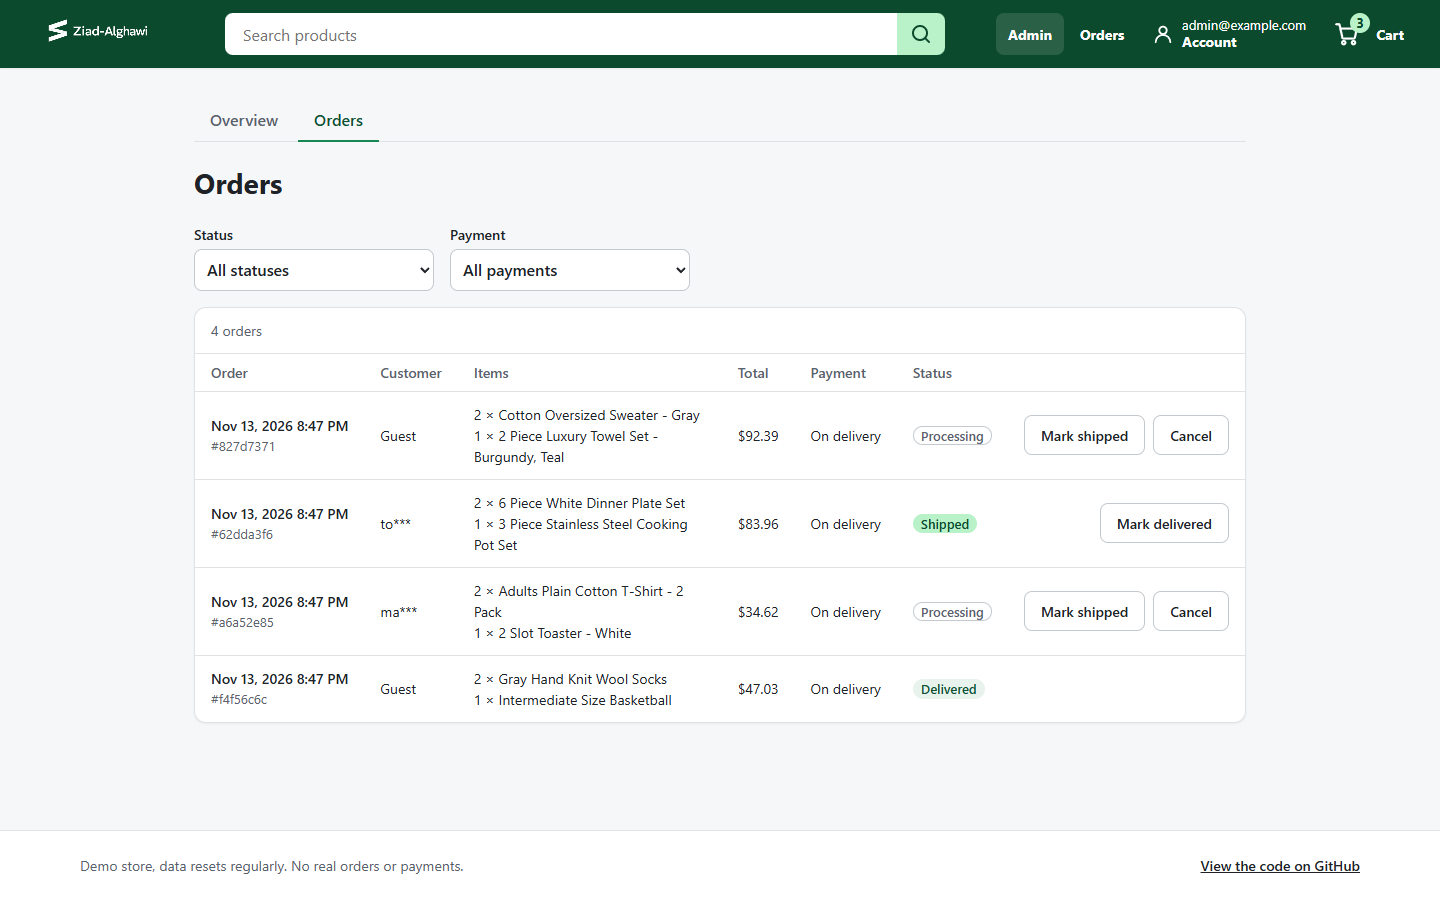
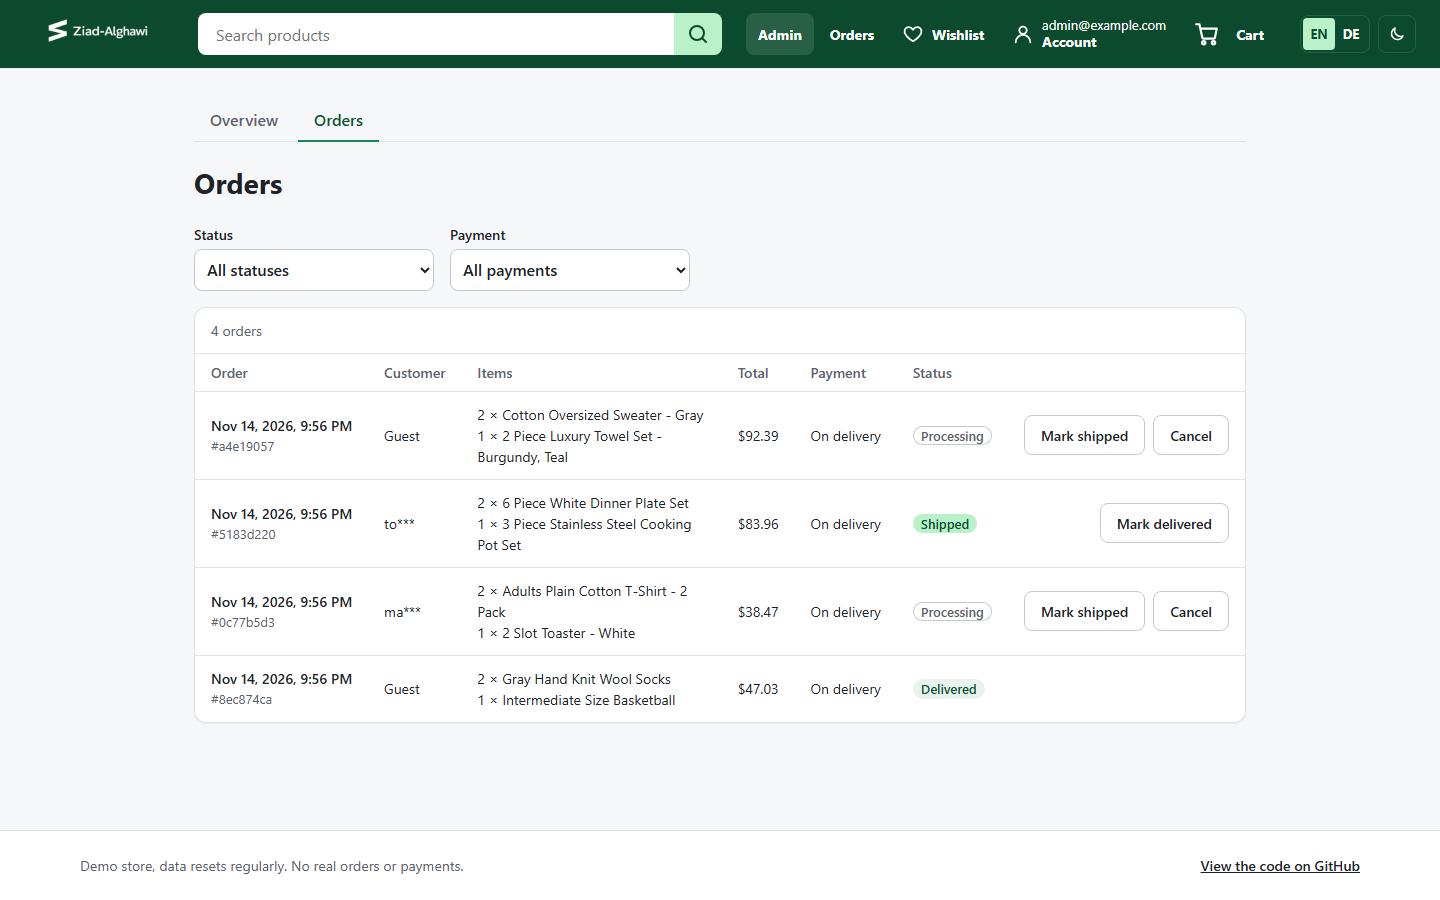
Tidy up after review and update the README and screenshots

diff --git a/src/i18n/de.ts b/src/i18n/de.ts
@@ -67,7 +67,7 @@ export const de: Messages = {
   },
   stock: {
     outOfStock: 'Ausverkauft',
-    onlyLeft: (stock) => `Nur noch ${stock} da`,
+    onlyLeft: (stock) => `Nur noch ${stock} auf Lager`,
     inStock: (stock) => `${stock} auf Lager`
   },
   addToCart: {
@@ -84,7 +84,7 @@ export const de: Messages = {
   },
   home: {
     title: 'Alltägliches, direkt geliefert',
-    intro: 'Basics für Zuhause, Küche und Kleiderschrank, mit kostenlosem Versand für jede Bestellung.',
+    intro: 'Basics für Zuhause, Küche und Kleiderschrank, mit kostenloser Versandoption für jede Bestellung.',
     resultsFor: (search) => `Ergebnisse für „${search}“`,
     noResults: (search) => `Keine Produkte für „${search}“ gefunden`,
     noMatch: 'Keine Produkte passen zu diesen Filtern',
@@ -238,7 +238,7 @@ export const de: Messages = {
   account: {
     title: 'Dein Konto',
     loginDetails: 'Anmeldedaten',
-    customerSince: 'Kunde seit',
+    customerSince: 'Dabei seit',
     ordersTitle: 'Deine Bestellungen',
     ordersText: 'Sendungen verfolgen, erneut kaufen oder Gekauftes bewerten',
     passwordTitle: 'Passwort ändern',
@@ -397,10 +397,10 @@ export const de: Messages = {
   },
   apiErrors: {
     outOfStock: ({ product, inCart }) => `${product} ist ausverkauft.${inCartNote(inCart)}`,
-    lowStock: ({ product, stock, inCart }) => `Von ${product} sind nur noch ${stock} da.${inCartNote(inCart)}`,
+    lowStock: ({ product, stock, inCart }) => `Von ${product} sind nur noch ${stock} auf Lager.${inCartNote(inCart)}`,
     outOfStockInOrder: ({ product }) => `${product} ist ausverkauft. Entferne es aus dem Warenkorb, um fortzufahren.`,
     lowStockInOrder: ({ product, stock }) => (
-      `Von ${product} sind nur noch ${stock} da. Verringere die Menge im Warenkorb, um fortzufahren.`
+      `Von ${product} sind nur noch ${stock} auf Lager. Verringere die Menge im Warenkorb, um fortzufahren.`
     ),
     emptyCart: () => 'Dein Warenkorb ist leer.',
     orderLimit: ({ max }) => `Dieser Demo-Shop speichert bis zu ${max} Bestellungen pro Besucher, und du hast das Limit erreicht.`,
@@ -421,7 +421,7 @@ export const de: Messages = {
   },
   validation: {
     valueMissing: 'Bitte fülle dieses Feld aus.',
-    typeMismatch: 'Bitte gib eine gültige E-Mail-Adresse ein.',
+    invalidEmail: 'Bitte gib eine gültige E-Mail-Adresse ein.',
     tooShort: (minLength) => `Bitte verwende mindestens ${minLength} Zeichen.`,
     rangeUnderflow: (min) => `Bitte gib ${min} oder mehr ein.`,
     rangeOverflow: (max) => `Bitte gib höchstens ${max} ein.`,

diff --git a/src/pages/WishlistPage.test.tsx b/src/pages/WishlistPage.test.tsx
@@ -19,19 +19,27 @@ const socks: Product = {
 
 const scarf: Product = { ...socks, id: '15b6fc6f-327a-4ec4-896f-486349e85a3d', name: 'Plaid Wool Scarf', deletedAt: '2026-11-01T00:00:00.000Z' };
 
-function renderPage(wishlist: Partial<Wishlist> | null) {
+function page(wishlist: Partial<Wishlist> | null) {
   const list = wishlist && {
     items: [], status: 'ready', reload: vi.fn(), has: () => true, save: vi.fn(), remove: vi.fn(), ...wishlist
   } as Wishlist;
-  render(
-    <MemoryRouter>
-      <AuthContext value={{ user: list ? { id: 'user-1' } as User : null, isAdmin: false, logOut: vi.fn() }}>
-        <WishlistContext value={list}>
-          <WishlistPage cart={[]} loadCart={vi.fn()} />
-        </WishlistContext>
-      </AuthContext>
-    </MemoryRouter>
-  );
+  return {
+    list,
+    element: (
+      <MemoryRouter>
+        <AuthContext value={{ user: list ? { id: 'user-1' } as User : null, isAdmin: false, logOut: vi.fn() }}>
+          <WishlistContext value={list}>
+            <WishlistPage cart={[]} loadCart={vi.fn()} />
+          </WishlistContext>
+        </AuthContext>
+      </MemoryRouter>
+    )
+  };
+}
+
+function renderPage(wishlist: Partial<Wishlist> | null) {
+  const { list, element } = page(wishlist);
+  render(element);
   return list;
 }
 
@@ -63,6 +71,16 @@ describe('WishlistPage', () => {
     expect(second).toHaveTextContent('Plaid Wool Scarf');
     expect(within(second).getByTestId('product-unavailable')).toHaveTextContent('No longer available');
     expect(within(second).queryByTestId('add-to-cart-button')).not.toBeInTheDocument();
+  });
+
+  it('moves keyboard focus to the title when a product is removed, as its heart goes away', () => {
+    const socksItem = { productId: socks.id, createdAt: '2026-11-02T00:00:00.000Z', product: socks };
+    const scarfItem = { productId: scarf.id, createdAt: '2026-11-01T00:00:00.000Z', product: scarf };
+    const { rerender } = render(page({ items: [socksItem, scarfItem] }).element);
+
+    rerender(page({ items: [scarfItem] }).element);
+
+    expect(screen.getByRole('heading', { level: 1, name: 'Your wishlist' })).toHaveFocus();
   });
 
   it('loads the list again after an error', async () => {

diff --git a/ecommerce-backend/routes/wishlist.js b/ecommerce-backend/routes/wishlist.js
@@ -10,13 +10,17 @@ const router = express.Router();
 router.param('productId', rejectInvalidId('Product not found'));
 router.use(requireUser);
 
-// Newest first. A product an admin deleted stays on the list with deletedAt set, so the user sees it's gone
+// Newest first. A product an admin deleted stays on the list with deletedAt set, so the user sees it's gone.
+// Products are only ever hidden, but an item without its product is left out rather than sent half empty
 router.get('/', asyncHandler(async (req, res) => {
   const items = await WishlistItem.findAll({ where: { userId: req.user.id } });
   const products = await Product.findAll({ where: { id: items.map(({ productId }) => productId) }, paranoid: false });
   const productsById = new Map(products.map((product) => [product.id, product]));
 
-  res.json(items.map(({ productId, createdAt }) => ({ productId, createdAt, product: productsById.get(productId) })));
+  res.json(items.flatMap(({ productId, createdAt }) => {
+    const product = productsById.get(productId);
+    return product ? [{ productId, createdAt, product }] : [];
+  }));
 }));
 
 // Saving a product again changes nothing. Deleted products can't be saved

diff --git a/src/pages/WishlistPage.tsx b/src/pages/WishlistPage.tsx
@@ -1,3 +1,4 @@
+import { useEffect, useRef } from 'react';
 import { Link } from 'react-router';
 import { Header } from '../components/Header';
 import { PageTitle } from '../components/PageTitle';
@@ -16,6 +17,17 @@ interface WishlistPageProps {
 export function WishlistPage({ cart, loadCart }: WishlistPageProps) {
   const wishlist = useWishlist();
   const { t } = useI18n();
+  const titleRef = useRef<HTMLHeadingElement>(null);
+  const itemCount = wishlist?.items.length ?? 0;
+  const previousCount = useRef(itemCount);
+
+  // Removing a product takes away the heart that was clicked, so keyboard focus moves to the title
+  useEffect(() => {
+    if (itemCount < previousCount.current) {
+      titleRef.current?.focus();
+    }
+    previousCount.current = itemCount;
+  }, [itemCount]);
 
   let pageContent;
 
@@ -49,7 +61,7 @@ export function WishlistPage({ cart, loadCart }: WishlistPageProps) {
       <Header cart={cart} />
 
       <main className="wishlist-page page">
-        <h1 className="page-title">{t.wishlist.title}</h1>
+        <h1 className="page-title" ref={titleRef} tabIndex={-1}>{t.wishlist.title}</h1>
 
         {pageContent}
       </main>

diff --git a/src/hooks/useValidationMessages.test.tsx b/src/hooks/useValidationMessages.test.tsx
@@ -12,6 +12,7 @@ function Form() {
   return (
     <form data-testid="form">
       <input aria-label="Email" type="email" required />
+      <input aria-label="Backup email" type="email" defaultValue="not-an-email" />
       <input aria-label="Percent" type="number" min="1" max="90" defaultValue="95" />
       <input aria-label="Code" type="text" pattern="[A-Z]{3}" title="3 Großbuchstaben" defaultValue="ab" />
       <input aria-label="One star" type="radio" name="stars" value="1" required />
@@ -27,6 +28,7 @@ describe('useValidationMessages', () => {
     expect((screen.getByTestId('form') as HTMLFormElement).checkValidity()).toBe(false);
 
     expect(screen.getByLabelText<HTMLInputElement>('Email').validationMessage).toBe('Bitte fülle dieses Feld aus.');
+    expect(screen.getByLabelText<HTMLInputElement>('Backup email').validationMessage).toBe('Bitte gib eine gültige E-Mail-Adresse ein.');
     expect(screen.getByLabelText<HTMLInputElement>('Percent').validationMessage).toBe('Bitte gib höchstens 90 ein.');
     expect(screen.getByLabelText<HTMLInputElement>('Code').validationMessage).toBe('3 Großbuchstaben');
   });

diff --git a/src/i18n/apiErrors.test.ts b/src/i18n/apiErrors.test.ts
@@ -1,0 +1,25 @@
+// @vitest-environment node
+import { it, expect, describe } from 'vitest';
+import fs from 'node:fs';
+import path from 'node:path';
+import { en } from './en';
+
+const backend = path.join(import.meta.dirname, '../../ecommerce-backend');
+
+function readSources(dir: string): string[] {
+  return fs.readdirSync(dir, { withFileTypes: true }).flatMap((entry) => {
+    const entryPath = path.join(dir, entry.name);
+    if (entry.isDirectory()) {
+      return ['node_modules', 'dist', 'test'].includes(entry.name) ? [] : readSources(entryPath);
+    }
+    return entry.name.endsWith('.js') ? [fs.readFileSync(entryPath, 'utf8')] : [];
+  });
+}
+
+describe("the API's refusal codes", () => {
+  it('each have a message in the store, and the store has none the API never sends', () => {
+    const sentCodes = new Set(readSources(backend).flatMap((source) => [...source.matchAll(/refusal\('(\w+)'/g)].map(([, code]) => code)));
+
+    expect([...sentCodes].sort()).toEqual(Object.keys(en.apiErrors).sort());
+  });
+});

diff --git a/e2e/language.spec.ts b/e2e/language.spec.ts
@@ -17,7 +17,7 @@ test('a visitor switches to German, which stays after a reload', async ({ page }
   await expect(page.getByTestId('header-cart-link')).toHaveAccessibleName('Warenkorb, 2 Artikel');
   await tote.getByTestId('add-to-cart-button').click();
   await expect(page.getByRole('alert', { name: 'Fehler' }))
-    .toContainText('Von Woven Straw Tote Bag sind nur noch 2 da. Du hast schon 2 im Warenkorb.');
+    .toContainText('Von Woven Straw Tote Bag sind nur noch 2 auf Lager. Du hast schon 2 im Warenkorb.');
 
   await page.goto('/page-that-does-not-exist');
   await expect(page.getByRole('heading', { level: 1, name: 'Seite nicht gefunden' })).toBeVisible();

diff --git a/src/i18n/i18n.test.ts b/src/i18n/i18n.test.ts
@@ -46,7 +46,7 @@ describe('createI18n', () => {
     const refusal = { error: 'Only 2 of Tote Bag left in stock.', code: 'lowStock', params: { product: 'Tote Bag', stock: 2, inCart: 2 } };
 
     expect(en.apiError(refusal)).toBe('Only 2 of Tote Bag left in stock. You already have 2 in your cart.');
-    expect(de.apiError(refusal)).toBe('Von Tote Bag sind nur noch 2 da. Du hast schon 2 im Warenkorb.');
+    expect(de.apiError(refusal)).toBe('Von Tote Bag sind nur noch 2 auf Lager. Du hast schon 2 im Warenkorb.');
   });
 
   it("falls back to the API's own message, and to nothing without one", () => {

diff --git a/src/hooks/useValidationMessages.ts b/src/hooks/useValidationMessages.ts
@@ -13,7 +13,7 @@ function describeProblem(field: Field, { t, formatNumber }: I18n) {
   const limit = (value: string) => formatNumber(Number(value));
 
   if (validity.valueMissing) return messages.valueMissing;
-  if (validity.typeMismatch) return messages.typeMismatch;
+  if (validity.typeMismatch) return field.type === 'email' ? messages.invalidEmail : '';
   if (validity.badInput) return messages.badInput;
   if (field instanceof HTMLSelectElement) return '';
   if (validity.tooShort) return messages.tooShort(field.minLength);

diff --git a/src/i18n/en.ts b/src/i18n/en.ts
@@ -411,7 +411,7 @@ export const en = {
   // Shown by the browser when a form field is filled in wrong
   validation: {
     valueMissing: 'Please fill in this field.',
-    typeMismatch: 'Please enter a valid email address.',
+    invalidEmail: 'Please enter a valid email address.',
     tooShort: (minLength: number) => `Please use at least ${minLength} characters.`,
     rangeUnderflow: (min: string) => `Please enter ${min} or more.`,
     rangeOverflow: (max: string) => `Please enter ${max} or less.`,

diff --git a/src/pages/product/ProductShelves.tsx b/src/pages/product/ProductShelves.tsx
@@ -77,7 +77,7 @@ export function RecentlyViewed({ product, loadCart }: ShelfProps) {
       addRecentlyViewed(productId);
     }
 
-    Promise.allSettled(ids.map(fetchProduct)).then((results) => {
+    Promise.allSettled(ids.map((id) => fetchProduct(id))).then((results) => {
       if (isCurrent) {
         setProducts(results.flatMap((result) => (result.status === 'fulfilled' && !result.value.deletedAt ? [result.value] : [])));
       }

diff --git a/README.md b/README.md
@@ -1,6 +1,6 @@
 # React E-Commerce Store
 
-A full-stack online store built with React, TypeScript and an Express API: product search and filters, a cart, coupons, two ways to pay, order tracking with real statuses, customer accounts and an admin area to run the store.
+A full-stack online store built with React, TypeScript and an Express API: product search and filters, a cart, coupons, two ways to pay, order tracking with real statuses, customer accounts with a wishlist, an admin area to run the store, English and German, and a dark mode.
 
 **Live demo:** https://react-ecommerce-8359.onrender.com
 
@@ -14,7 +14,8 @@ A full-stack online store built with React, TypeScript and an Express API: produ
 - **Use a coupon:** type `WELCOME10` at checkout for 10% off the items. Checkout also suggests it.
 - **Cancel an order** from your orders page before it ships. Its items go back in stock, and a card payment is refunded in full.
 - **Sold out products:** the Straw Wide Brim Sun Hat can't be added to the cart, and the Woven Straw Tote Bag has only 2 left.
-- **Create an account** to keep your cart and orders on every device. What you added as a guest moves to the account when you log in.
+- **Create an account** to keep your cart, orders and wishlist on every device. What you added as a guest moves to the account when you log in.
+- **Switch to German** with DE in the header, or **turn on dark mode** with the moon next to it. Both are remembered, and until you choose, the store follows your browser's language and your system's theme.
 
 The admin area needs an account listed in `ADMIN_USER_IDS`, so the screenshots below show it.
 
@@ -23,6 +24,8 @@ The admin area needs an account listed in `ADMIN_USER_IDS`, so the screenshots b
 **Shopping**
 - Search by name or keyword, browse by category, filter by price and sort by price, rating or newest. Every filter is kept in the URL, so links and the back button work
 - Product pages with verified reviews: customers who ordered a product can rate and review it, and the shop shows a masked name such as "ja\*\*\*"
+- Up to 4 suggestions from the same category on every product page, best rated first, and the last 4 products this browser looked at
+- A wishlist for logged in customers, saved with the heart on any product. Guests are asked to log in, and a product deleted since shows as no longer available
 - Stock for every product: the shop says when only a few are left, and sold out products can't be added. Demo products that run low are restocked once a day
 - A cart with quantities, three delivery options and a live payment summary
 - Coupons typed at checkout, with the discount worked out by the API every time
@@ -30,6 +33,11 @@ The admin area needs an account listed in `ADMIN_USER_IDS`, so the screenshots b
 - Cancelling an order until it ships, which puts its items back in stock and refunds a card payment
 - A separate cart and order history for each visitor without signing up, or optional accounts with email and password, a password reset by email and an account page
 - Notifications that confirm actions or explain what failed, with a retry, and loading, empty and error states everywhere
+
+**Language and look**
+- English and German for every page, notification and form hint, chosen in the header, remembered in the browser and taken from the browser's language at first
+- Dates and numbers are written the way the language does, while prices stay in US dollars. The API sends a code with each reason a shopper can run into, so those are translated too. Rarer ones, like an admin form field the browser already checks, stay in English
+- A dark mode that follows the system's theme, with a toggle in the header. Every color is a CSS variable with a light and a dark value, and the end-to-end tests check contrast in both
 
 **Admin**
 - An overview with the orders of the last 24 hours and 7 days, the week's revenue, low stock products and the 5 best sellers
@@ -57,6 +65,8 @@ The admin area needs an account listed in `ADMIN_USER_IDS`, so the screenshots b
 | ![A product page with its photo, rating, price and reviews](docs/screenshots/product.png) | ![Checkout with delivery options, the payment summary and a coupon field](docs/screenshots/checkout.png) |
 | **Admin overview and products** | **Admin orders** |
 | ![The admin overview with order counts, revenue, low stock and top products, above the product table](docs/screenshots/admin-products.png) | ![The admin orders table with filters, statuses and buttons to ship or cancel](docs/screenshots/admin-orders.png) |
+| **Wishlist in dark mode** | **Product page in German** |
+| ![A wishlist with four saved products, shown in dark mode](docs/screenshots/wishlist-dark.png) | ![A product page in German with its reviews and four suggested products from the same category](docs/screenshots/product-german.png) |
 
 ## Tech Stack
 
@@ -84,7 +94,8 @@ Supabase Auth           Stripe Checkout ◄── webhook: checkout.session.comp
 - **Visitors and accounts.** The browser makes up a visitor ID and sends it as `X-Visitor-Id`, which keeps a cart and orders per browser without an account. A logged in user sends their Supabase token instead. The API verifies it with the project's public keys and uses the user ID in place of the visitor ID.
 - **The API decides.** Prices, discounts, stock, order totals, who is an admin and which status changes are allowed are all worked out on the server. The frontend only shows what the API says.
 - **Stock without transactions.** The local SQLite driver can't hold a transaction open, so taking stock is a single conditional `UPDATE` per item, and an order that runs short gives back what it took. Status changes work the same way, so two cancels at once can't return stock twice.
-- **Schema changes on startup.** `sync()` creates missing tables, and columns added later are added by `server.js` on startup, so a deploy upgrades the Postgres database by itself.
+- **Schema changes on startup.** `sync()` creates missing tables, like the wishlist's, and columns added later are added by `server.js` on startup, so a deploy upgrades the Postgres database by itself.
+- **Translations in one place.** The English messages in `src/i18n/en.ts` define the type the German ones must match, so a missing or extra key fails the build. A test checks that every code the API sends has a message.
 
 The endpoints are described in [ecommerce-backend/documentation.md](ecommerce-backend/documentation.md).
 
@@ -139,7 +150,7 @@ npm --prefix ecommerce-backend run lint && npm --prefix ecommerce-backend test
 
 - **Frontend unit tests** (Vitest, Testing Library) render pages and components with a stubbed API.
 - **API tests** (Node test runner) start the real server on a free port with a throwaway SQLite database and call it over HTTP. Local stand-ins for Supabase Auth and the Stripe API sign their own tokens and webhook events, so no accounts or keys are needed. To run them against Postgres, set `TEST_DATABASE_URL` to an empty throwaway database, for example one started with `docker run -e POSTGRES_PASSWORD=postgres -p 5432:5432 postgres:17` and `postgres://postgres:postgres@localhost:5432/postgres`. A database on `localhost` is reached without SSL.
-- **End-to-end tests** (Playwright) click through a production build of the store, served by the backend on a fresh SQLite database, with a stand-in for Supabase Auth and card payment off. They cover browsing, filtering and search, a guest order paid on delivery, coupons, stock limits, cancelling, an admin shipping an order, keyboard focus and an axe accessibility check of the new pages.
+- **End-to-end tests** (Playwright) click through a production build of the store, served by the backend on a fresh SQLite database, with a stand-in for Supabase Auth and card payment off. They cover browsing, filtering and search, related and recently viewed products, a guest order paid on delivery, coupons, stock limits, cancelling, an admin shipping an order, the wishlist, switching to German, dark mode, keyboard focus and an axe accessibility check of the pages in both themes.
 
 ```bash
 npx playwright install chromium   # once
@@ -208,7 +219,8 @@ The Stripe sandbox is shared with another app, so every session is tagged with `
 ├── src/
 │   ├── components/       # Shared components
 │   ├── hooks/            # Shared hooks
-│   ├── pages/            # Home, product, checkout, orders, tracking, login, account and admin pages
+│   ├── i18n/             # English and German messages, and formatting for each language
+│   ├── pages/            # Home, product, checkout, orders, tracking, login, account, wishlist and admin pages
 │   ├── types/            # Shared TypeScript types
 │   └── utils/            # Helpers and their tests
 └── render.yaml           # Render deployment config
@@ -216,6 +228,6 @@ The Stripe sandbox is shared with another app, so every session is tagged with `
 
 ## Background
 
-This project started from a React course. The backend is based on the [SuperSimpleDev course starter code](https://github.com/SuperSimpleDev/ecommerce-project), and I built the frontend while following the course, then migrated it to TypeScript. Since then I've extended it with a separate cart and orders per visitor, accounts with Supabase Auth, product pages with reviews, categories and filters, stock, coupons, card payment with Stripe, order statuses with an admin orders dashboard and overview, a security pass, accessibility work, unit, API and end-to-end tests, CI and deployment config.
+This project started from a React course. The backend is based on the [SuperSimpleDev course starter code](https://github.com/SuperSimpleDev/ecommerce-project), and I built the frontend while following the course, then migrated it to TypeScript. Since then I've extended it with a separate cart and orders per visitor, accounts with Supabase Auth, product pages with reviews, categories and filters, stock, coupons, card payment with Stripe, order statuses with an admin orders dashboard and overview, a wishlist, related and recently viewed products, German, a dark mode, a security pass, accessibility work, unit, API and end-to-end tests, CI and deployment config.
 
 Product photos are from Unsplash and Pexels and credited in [CREDITS.md](public/images/products/CREDITS.md).
